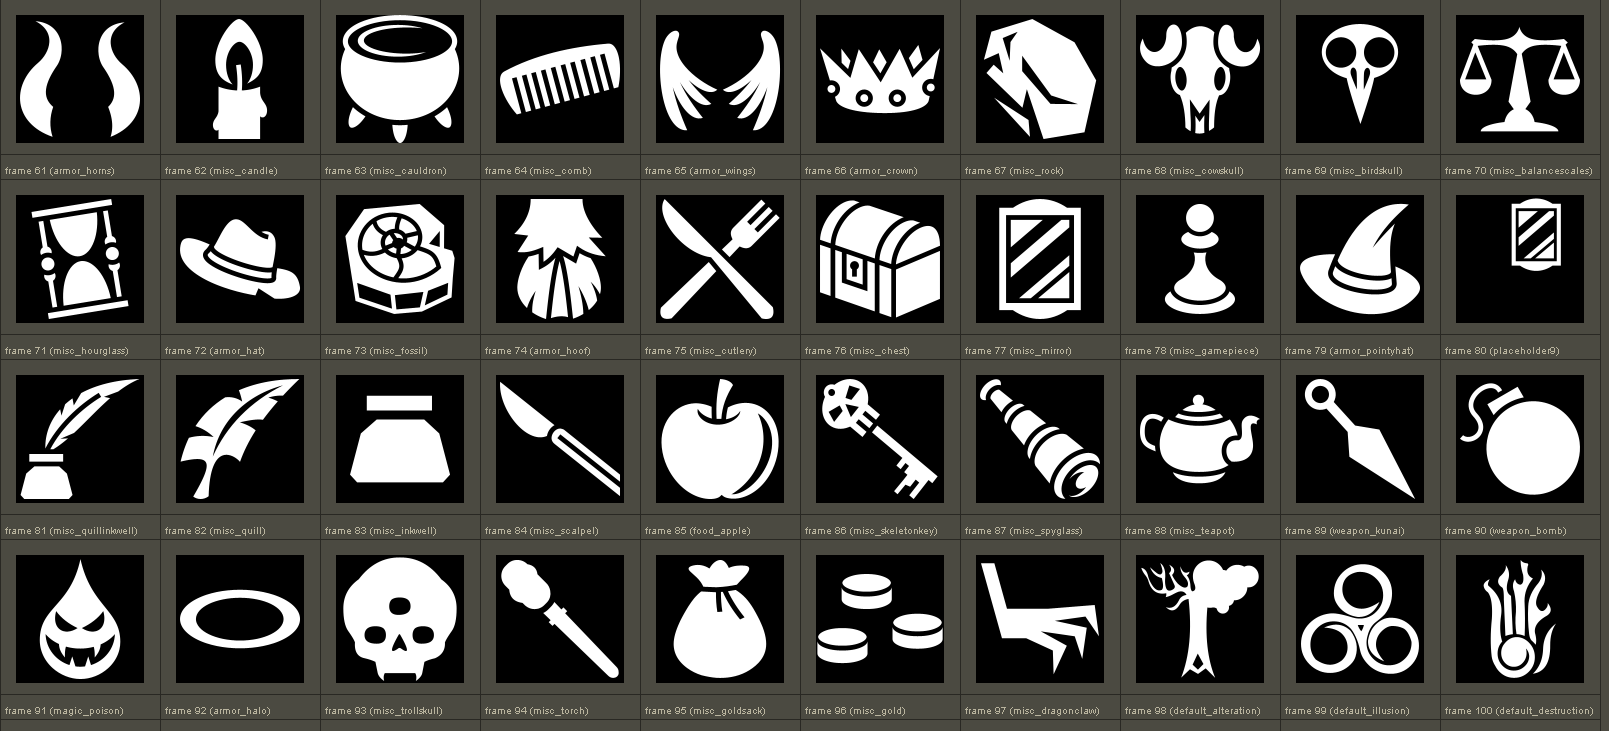
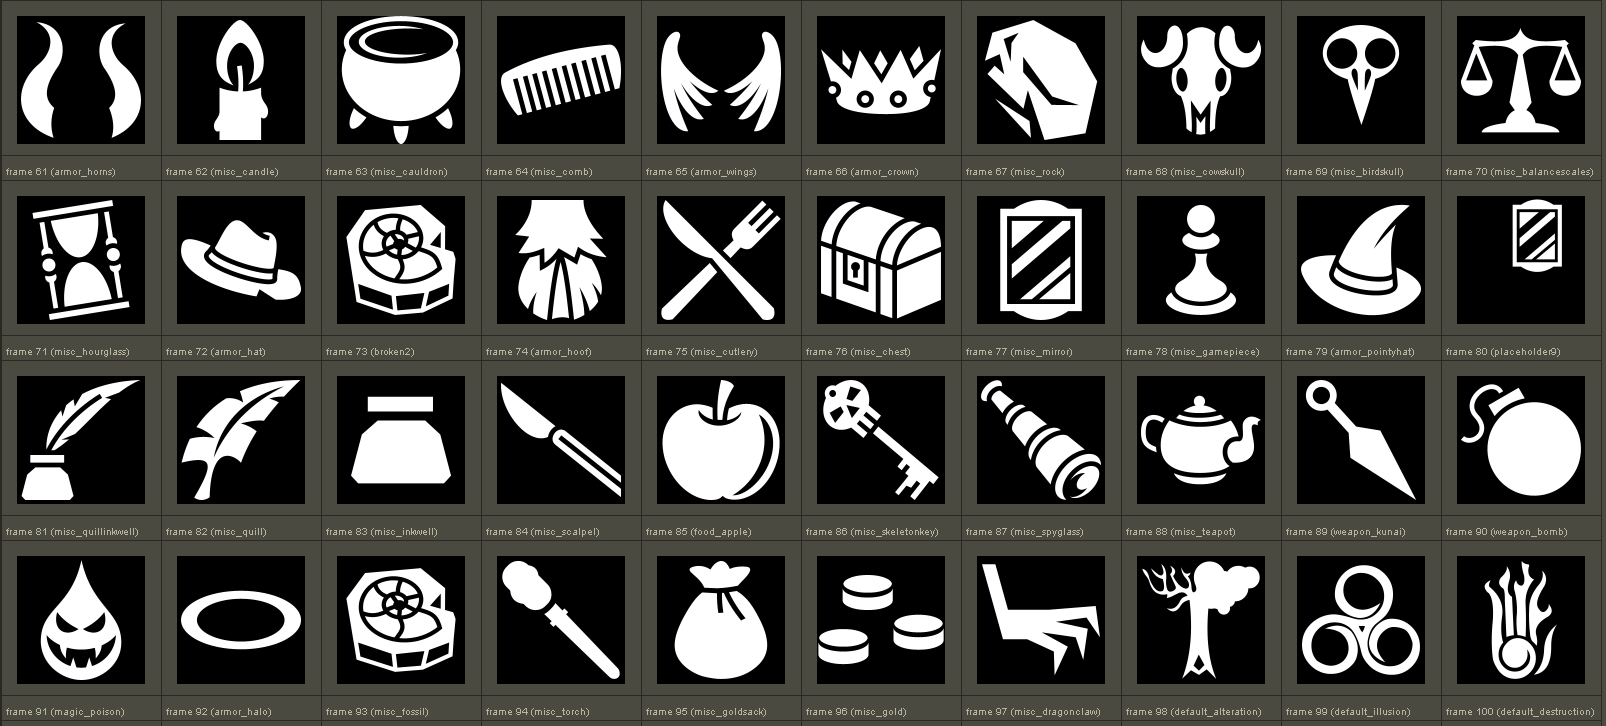
update docs

diff --git a/docs/description-md/description_detailed.md b/docs/description-md/description_detailed.md
@@ -133,11 +133,11 @@ x, `food_egg`, `food_magicegg`, `food_cookedegg`, `misc_soap`, `misc_scissors`, 
 
 `armor_horns`, `misc_candle`, `misc_cauldron`, `misc_comb`, `armor_wings`, `armor_crown`, `misc_rock`, `misc_cowskull`, `misc_birdskull`, `misc_balancescales`,
 
-`misc_hourglass`, `armor_hat`, `misc_fossil`, `armor_hoof`, `misc_cutlery`, `misc_chest`, `misc_mirror`, `misc_gamepiece`, `armor_pointyhat`, x,
+`misc_hourglass`, `armor_hat`, x, `armor_hoof`, `misc_cutlery`, `misc_chest`, `misc_mirror`, `misc_gamepiece`, `armor_pointyhat`, x,
 
 `misc_quillinkwell`, `misc_quill`, `misc_inkwell`, `misc_scalpel`, `food_apple`, `misc_skeletonkey`, `misc_spyglass`, `misc_teapot`, `weapon_kunai`, `weapon_bomb`,
 
-`magic_poison`, `armor_halo`, x, x, x, x, x, x, x, x
+`magic_poison`, `armor_halo`, `misc_fossil`, x, x, x, x, x, x, x
 
 ### \[font=Verdana\]**AIT/MoreIcons/icons.swf**\[/font\]
 
